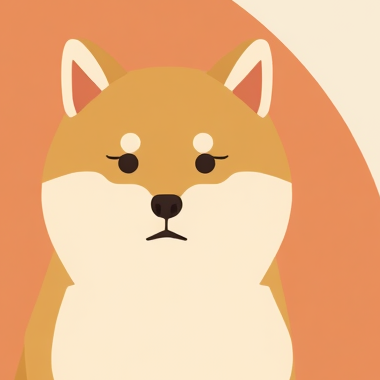
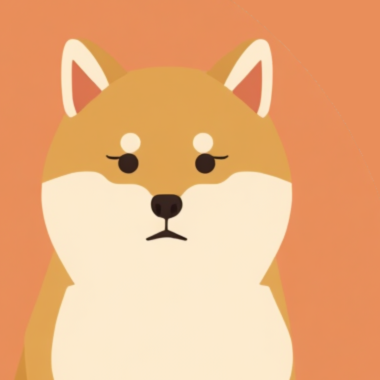
Fix hero spacing and drop card-like framing from the illustration
- Add proper margin between the hero and the tool cards below (they
  were touching when the image column was taller than the text column)
- Remove the border/shadow "card" treatment on the hero image so it
  doesn't visually compete with actual clickable cards
- Flood-fill a stray ivory background sliver in the dog face icon crop

Changed region(s): [[0.6079, 0.0, 1.0, 0.5211], [0.4632, 0.6079, 0.4921, 0.6368]]

diff --git a/app/page.tsx b/app/page.tsx
@@ -16,7 +16,7 @@ export default function Home() {
       </div>
 
       <div className="relative mx-auto max-w-5xl px-4 py-10 sm:py-16">
-        <div className="grid items-center gap-8 sm:grid-cols-[1.15fr_1fr] sm:gap-10">
+        <div className="mb-12 grid items-center gap-8 sm:mb-16 sm:grid-cols-[1.15fr_1fr] sm:gap-10">
           <div>
             <div className="mb-3 flex items-center gap-3">
               <Image
@@ -46,16 +46,14 @@ export default function Home() {
           </div>
 
           <div className="mx-auto w-full max-w-xs sm:max-w-none">
-            <div className="overflow-hidden rounded-[2rem] border border-border shadow-lg">
-              <Image
-                src="/images/hero-cat-dog.png"
-                alt="計算機の前に並んで座る三毛猫と柴犬のイラスト"
-                width={1200}
-                height={1200}
-                priority
-                className="h-auto w-full"
-              />
-            </div>
+            <Image
+              src="/images/hero-cat-dog.png"
+              alt="計算機の前に並んで座る三毛猫と柴犬のイラスト"
+              width={1200}
+              height={1200}
+              priority
+              className="h-auto w-full rounded-[2rem]"
+            />
           </div>
         </div>
 
